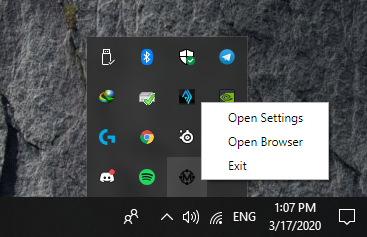
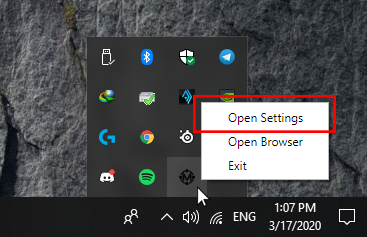
faqs and links

Changed region(s): [[0.5095, 0.384, 0.9292, 0.5612], [0.5395, 0.7975, 0.5695, 0.8861]]

diff --git a/wiki.html b/wiki.html
@@ -2,13 +2,14 @@
 <html>
 <head>
 	<title>MassBrowser</title>
-	<meta name="viewport" content="width=device-width, initial-scale=1.0"> 
+	<meta name="viewport" content="width=device-width, initial-scale=1.0">
 	<script src="https://kit.fontawesome.com/fe0b14f795.js" crossorigin="anonymous"></script>
 	<meta http-equiv="Content-Type" content="text/html; charset=windows-1252">
 	<link rel="apple-touch-icon" sizes="180x180" href="https://massbrowser.cs.umass.edu/apple-touch-icon.png">
 	<link rel="icon" type="image/png" sizes="32x32" href="https://massbrowser.cs.umass.edu/favicon-32x32.png">
 	<link rel="icon" type="image/png" sizes="16x16" href="https://massbrowser.cs.umass.edu/favicon-16x16.png">
 	<link href="https://fonts.googleapis.com/css?family=Rajdhani|Roboto&display=swap" rel="stylesheet">
+	<meta charset="utf-8">
 	<link rel="manifest" href="https://massbrowser.cs.umass.edu/site.webmanifest">
 	<link rel="stylesheet" href="./assets/css/styles.css">
 </head>
@@ -22,13 +23,14 @@
 					How to Open/Close MassBrowser
 				</div>
 				<div class="help-page-text">
-					You could open MassBrowser client by double clicking on the desktop shortcut and you could close the application GUI and it will continue running in the background.
+					You can open the MassBrowser client by double clicking on the desktop shortcut. Then, click "Open MassBrowser" button to open the browser. You can close the setting page at any time.
 				</div>
 				<div class="help-page-image">
 					<img src="./assets/images/home.png">
 				</div>
+
 				<div class="help-page-text">
-					If you need to access MassBrowser client or you want to stop the application completely after you close the application GUI, follow these steps to open the application again:
+					Note that closing the browser will not close the MassBrowser application and double click action on the desktop shortcut will open the MassBrowser(Firefox) not the setting page. If you need to close it or reopen it, you can find it as a hidden application icon:
 				</div>
 				<div class="help-xtra-steps">
 					<ol>
@@ -45,12 +47,12 @@
 							Find MassBrowser icon and press <strong>right click</strong> on the icon
 							</div>
 							<div class="help-page-image">
-								<img src="./assets/images/quick-bar-2.png">	
+								<img src="./assets/images/quick-bar-2.png">
 							</div>
 						</li>
 						<li>
 							<div class="help-page-text">
-								Now you can re-open the application GUI by clicking on <strong>"Open Settings"</strong> or you can close the MassBrowser completely by clicking on <strong>"Exit"</strong>.
+								Now you can re-open the MassBrowser setting page or its browser, or you can exit the application.
 							</div>
 							<div class="help-page-image">
 								<img src='./assets/images/quick-bar-3.png'>
@@ -66,25 +68,88 @@
 					How to Unblock a Certain Page
 				</div>
 				<div class="help-page-text">
-					You need to have MassBrowser plugin installed on your Firefox to unblock a certain page that we are not currently supporting. If you are using <a href="https://massbrowser.cs.umass.edu/#download">the bundle version</a>, the plugin is already installed and you should be able to see the plugin icon on the top right side of your Firefox window.
+					<div class="help-text-section-title">
+						Installing the plugin:
+					</div>
+					You need to have MassBrowser plugin installed on your Firefox to unblock a certain page that we are not currently supporting. If you are using <a href="https://massbrowser.cs.umass.edu/#download">the bundle version</a>, the plugin is already installed and you should be able to see the plugin icon on the top right side of your Firefox window.<br>
+					If you do not see the plugin, make sure MassBrowser is running and then open <a href="http://localhost:6423/plugin">this link</a> using your Firefox.
 					<br>
-					Click on the Massbrowser plugin and then click on <strong>"Unblock This Website"</strong>. Now MassBrowser will remember to use Tor for this website.
+					<div class="help-text-section-title">
+						Using the plugin:
+					</div>
+					Click on the MassBrowser plugin and then click on <strong>"Unblock This Website"</strong>. Now MassBrowser will remember to use Tor for this website.
 				</div>
 				<div class="help-page-image">
 					<img src='./assets/images/plugin.png'>
-				</div>				
+				</div>
 			</div>
 
 
-			<div class="help-page" id="lang">
+			<div class="help-page" id="settings">
 				<div class="help-page-title">
-					How to Change MassBrowser Language
+					Change the Settings of MassBrowser
 				</div>
 				<div class="help-page-image">
 					<img src="./assets/images/settings.png">
 				</div>
 				<div class="help-page-text">
-					You could change the settings of your MassClient in this page. At this moment we support English and Chinese. Use the drop down infront of the <strong>"Language Setting"</strong> to change your client language. You could always change this setting at anytime.
+					You could change the settings of your MassClient in this page.<br>
+					<div class="help-text-section-title">
+						Change Language:
+					</div>
+					 At this moment we support English and Chinese. Use the drop down in front of the <strong>"Language Setting"</strong> to change your client language. You could always change this setting at anytime.<br>
+					<div class="help-text-section-title">
+						Send us feedback:
+					</div>
+					You can send us feedback through the "Feedback tab".<br>
+					<div class="help-text-section-title">
+						See your connections:
+					</div>
+					Navigate to the "STATS" tab to see your current connections.
+				</div>
+			</div>
+
+
+			<div class="help-page" id="faqs">
+				<div class="help-page-title">
+					Frequently Asked Questions
+				</div>
+				<div class="help-page-text">
+					<div class="faq-item">
+						<div class="faq-item-q">
+							My Firefox says "The proxy server is refusing connections", what should I do?
+						</div>
+						<div class="faq-item-a">
+							Make sure your MassBrowser is running. If you are not using the bundle version check the proxy settings in your firefox network section.
+						</div>
+					</div>
+
+					<div class="faq-item">
+						<div class="faq-item-q">
+							The website I want to visit is still censored. What should I do?
+						</div>
+						<div class="faq-item-a">
+							To unblock everything you need to use the plugin. Check <a href="#unblock">this guide</a> to unblock a certain website.
+						</div>
+					</div>
+
+					<div class="faq-item">
+						<div class="faq-item-q">
+							Do I have privacy/anonymity when using MassBrowser?
+						</div>
+						<div class="faq-item-a">
+							Please refer to our <a href="">privacy policy</a> to see our privacy protections. In short, if you need  privacy protection, you should use privacy tools like Tor (good news, you can use Tor through MassBrowser by going to our setting page). When you use MassBrowser, you should assume that third-parties will learn the websites that you visit (but not their contents for HTTPS connections). 
+						</div>
+					</div>
+
+					<div class="faq-item">
+						<div class="faq-item-q">
+							How do I use MassBrowser to unblock Telegram or Tor? 
+						</div>
+						<div class="faq-item-a">
+							You need to download Tor or Telegram. Then, go to the setting page of MassBrowser and change the setting of Tor/Telegram to tunnel their traffic through MassBrowser. 
+						</div>
+					</div>
 				</div>
 			</div>
 		</div>
@@ -110,10 +175,16 @@
 				</div>
 
 				<div class="help-pages-list">
-					<a class="help-page-item" href="#lang">
-						How to Change MassBrowser Language
+					<a class="help-page-item" href="#settings">
+						Change the Settings of MassBrowser
 					</a>
-				</div>			
+				</div>
+
+				<div class="help-pages-list">
+					<a class="help-page-item" href="#faqs">
+						Frequently Asked Questions (FAQ)
+					</a>
+				</div>
 			</div>
 		</div>
 	</div>

diff --git a/assets/css/styles.css b/assets/css/styles.css
@@ -79,6 +79,7 @@ font-size: 16px;
 }
 
 .help-page-text {
+	padding: 20px;
 	font-family: -apple-system, BlinkMacSystemFont, "Segoe UI", Roboto, Helvetica, Arial, sans-serif, "Apple Color Emoji", "Segoe UI Emoji", "Segoe UI Symbol";
 	font-size: 1rem;
 }
@@ -87,13 +88,37 @@ font-size: 16px;
 	margin-top: 0;
 }
 
+.faq-item:first-of-type {
+	margin-top: 0;
+}
+
+.faq-item {
+	margin: 20px 0;
+}
+
+.faq-item-q {
+	font-weight: 700;
+}
+
+.faq-item-a {
+
+}
+
+.help-text-section-title {
+	font-weight: 700;
+	background-color: #EDEDED;
+	display: inline-block;
+	margin: 5px 0;
+	padding: 5px;
+	border-radius: 5px;
+}
+
 .help-page {
 	margin-top: 50px;
 	box-shadow: 0 1px 1px rgba(27,31,35,.1)!important;
 	background-color: #fff;
     border: 1px solid #d1d5da;
     border-radius: 3px;
-	padding: 20px;
 	display: flex;
 	flex-direction: column;
 	align-items: center;
@@ -101,8 +126,16 @@ font-size: 16px;
 }
 
 .help-page-title {
+	width: calc(100% + 2px);
+	text-align: center;
 	font-size: 2rem;
-	margin-bottom: 10px;
+	font-weight: 700;
+	padding: 8px 16px;
+    margin: -1px -1px 0;
+    background-color: #f6f8fa;
+    border: 1px solid #d1d5da;
+    border-top-left-radius: 3px;
+    border-top-right-radius: 3px;
 }
 
 .help-page-image {

diff --git a/index.html b/index.html
@@ -82,7 +82,7 @@
 				</p>
 			</div>
 			<div class="download-options">
-				<a target="_blank" class="download-option" href="https://github.com/SPIN-UMass/MassBrowser/releases/download/v0.1.0/MassBrowser-FirefoxBundle-Setup-0.1.0.exe">
+				<a target="_blank" class="download-option" href="https://github.com/SPIN-UMass/MassBrowser/releases/download/v0.11.1/MassBrowser-FirefoxBundle-Setup-0.11.1.exe">
 					<div class="option-icon">
 						<i class="fab fa-windows"></i>
 					</div>
@@ -91,7 +91,7 @@
 					</div>
 				</a>
 
-				<a target="_blank" class="download-option" href="https://github.com/SPIN-UMass/MassBrowser/releases/download/v0.1.0/MassBrowser-0.1.0.dmg">
+				<a target="_blank" class="download-option" href="https://github.com/SPIN-UMass/MassBrowser/releases/download/v0.11.1/MassBrowser-0.11.1.dmg">
 					<div class="option-icon">
 						<i class="fab fa-apple"></i>
 					</div>
